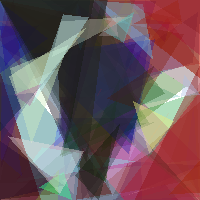
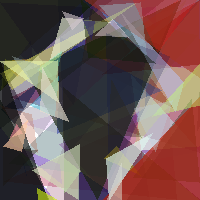
adaptive mutation and diversity control, big jump in final fitness once i ran 1000 gens

diff --git a/variants/evoart_tune_c_before_variant14_adaptive_mutation.py b/variants/evoart_tune_c_before_variant14_adaptive_mutation.py
@@ -115,10 +115,6 @@ def mutate_shape(shape, amount=6):
             r = random.randint(0, 255)
             g = random.randint(0, 255)
             b = random.randint(0, 255)
-        elif colour_type < 0.2:
-            r = clamp(r + random.randint(-5, 5), 0, 255)
-            g = clamp(g + random.randint(-5, 5), 0, 255)
-            b = clamp(b + random.randint(-5, 5), 0, 255)
         else:
             colour_amount = 6 if colour_type < 0.85 else 24
             channel = random.randrange(3)
@@ -131,7 +127,7 @@ def mutate_shape(shape, amount=6):
                 b = clamp(b + delta, 0, 255)
     else:
         alpha_amount = 4 if random.random() < 0.9 else 16
-        alpha = clamp(alpha + random.randint(-alpha_amount, alpha_amount), 5, 160)
+        alpha = clamp(alpha + random.randint(-alpha_amount, alpha_amount), 10, 160)
 
     return (x0, y0, x1, y1, x2, y2, r, g, b, alpha)
 
@@ -165,25 +161,17 @@ def swap_shape_order(solution):
     return solution
 
 
-def mutate(
-    solution,
-    rate=1.0,
-    amount=6,
-    deletion_probability=0.01,
-    add_multiplier=1.0,
-    replacement_probability=0.04,
-):
+def mutate(solution, rate=1.0):
     mutated = list(solution)
 
     if mutated and random.random() < rate:
         index = random.randrange(len(mutated))
-        mutated[index] = mutate_shape(mutated[index], amount=amount)
+        mutated[index] = mutate_shape(mutated[index])
 
-    add_probability = min(1.0, shape_add_probability(len(mutated)) * add_multiplier)
-    if len(mutated) < MAX_SHAPES and random.random() < add_probability:
+    if len(mutated) < MAX_SHAPES and random.random() < shape_add_probability(len(mutated)):
         mutated.append(random_shape())
 
-    if mutated and random.random() < replacement_probability:
+    if mutated and random.random() < 0.04:
         mutated[random.randrange(len(mutated))] = random_shape()
 
     if len(mutated) > 1 and random.random() < 0.12:
@@ -192,7 +180,7 @@ def mutate(
     if len(mutated) > 1 and random.random() < 0.06:
         mutated = swap_shape_order(mutated)
 
-    if len(mutated) > 1 and random.random() < deletion_probability:
+    if len(mutated) > 1 and random.random() < 0.01:
         del mutated[random.randrange(len(mutated))]
 
     if not mutated:
@@ -246,74 +234,14 @@ def elite_individuals(population, fraction=0.1):
     return sorted(population.individuals, key=lambda individual: individual.fitness, reverse=True)[:count]
 
 
-def evaluated_individuals(population):
-    return [individual for individual in population.individuals if individual.fitness is not None]
-
-
-def mutation_amount_for_parent(parent):
-    if parent.fitness < 0.80:
-        return 10
-    if parent.fitness < 0.87:
-        return 7
-    return 4
-
-
-def deletion_probability_for_parent(parent):
-    if parent.fitness < 0.85:
-        return 0.01
-    return 0.04
-
-
-def choose_parent(elites, population):
-    if random.random() < 0.9:
-        return random.choice(elites)
-    return random.choice(evaluated_individuals(population))
-
-
-def update_stagnation_state(population, generation):
-    current_best = population.current_best.fitness
-
-    if not hasattr(population, "_last_stagnation_check_best"):
-        population._last_stagnation_check_best = current_best
-    if not hasattr(population, "_stagnation_boost_until"):
-        population._stagnation_boost_until = 0
-
-    if generation % 50 == 0:
-        improvement = current_best - population._last_stagnation_check_best
-        if improvement < 0.002:
-            population._stagnation_boost_until = generation + 25
-        population._last_stagnation_check_best = current_best
-
-
-def stagnation_boost_active(population, generation):
-    return generation <= getattr(population, "_stagnation_boost_until", 0)
-
-
 def evolve(population, args):
     original_size = population.intended_size
     elites = elite_individuals(population)
     offspring_count = original_size * 2
-    generation = population.generation + 1
-    update_stagnation_state(population, generation)
-    boost = stagnation_boost_active(population, generation)
 
     for _ in range(offspring_count):
-        parent = choose_parent(elites, population)
-        amount = mutation_amount_for_parent(parent)
-        add_multiplier = 1.0
-        replacement_probability = 0.04
-        if boost:
-            amount += 2
-            add_multiplier = 1.25
-            replacement_probability = 0.06
-        deletion_probability = deletion_probability_for_parent(parent)
-        offspring = mutate(
-            copy_solution(parent.chromosome),
-            amount=amount,
-            deletion_probability=deletion_probability,
-            add_multiplier=add_multiplier,
-            replacement_probability=replacement_probability,
-        )
+        parent = random.choice(elites)
+        offspring = mutate(copy_solution(parent.chromosome))
         population.individuals.append(Individual(offspring))
 
     population.generation += 1
